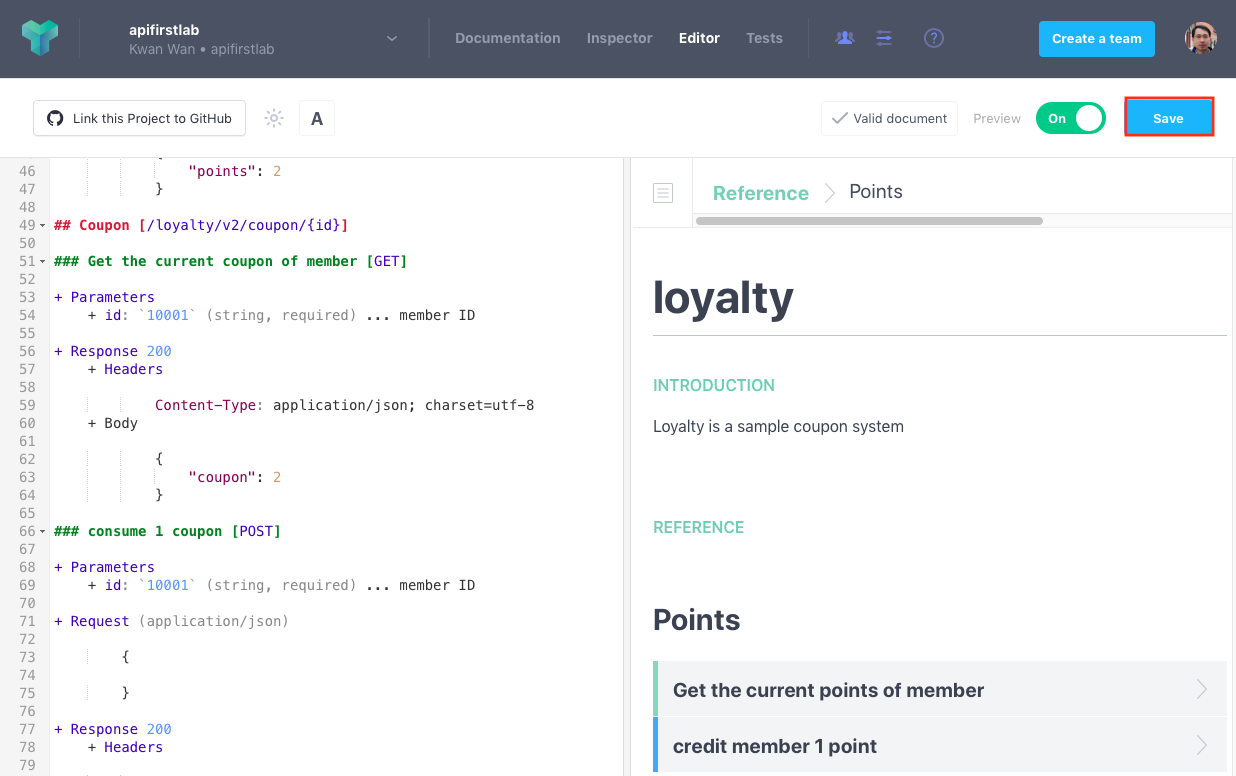
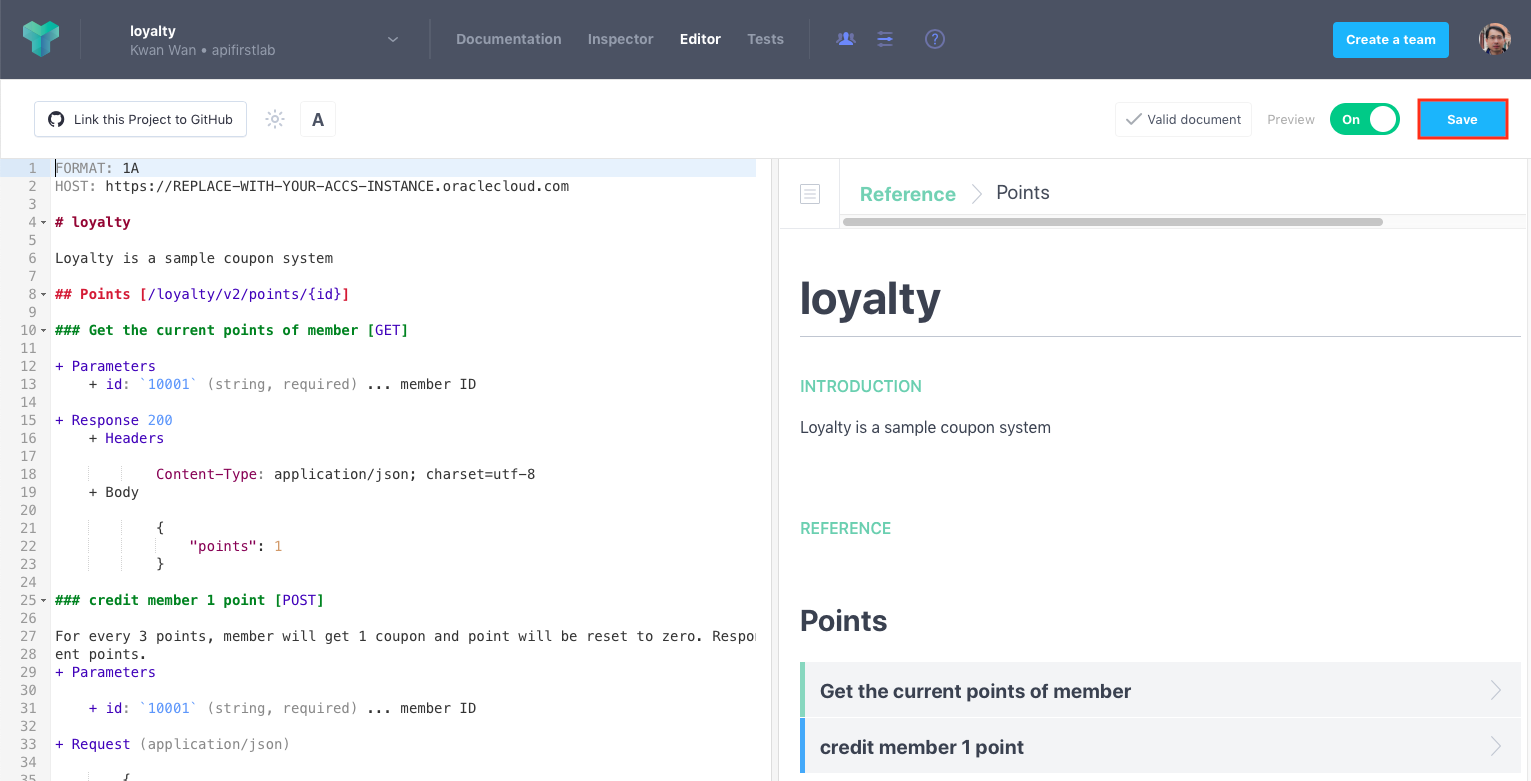
Updated lab and new captures.

diff --git a/300-APIFIRSTlab.md b/300-APIFIRSTlab.md
@@ -21,7 +21,7 @@ For more detail information of apiary, please visit https://apiary.io
 
 - Open a browser window and navigate to https://apiary.io
 
-![](images/apiary-01.png)
+  ![](images/apiary-01.png)
 
 ### Step 2: Sign up a free account
 
@@ -31,7 +31,7 @@ For more detail information of apiary, please visit https://apiary.io
 
 - Fill in your name, your email address and desired password and click [ ** Sign up for Apiary** ] - *please remember to review Apiary's Terms of Service and Privacy Policy*.
 
-![](images/apiary-02.png)
+  ![](images/apiary-02.png)
 
 - You will receive email verification for your Apiary account. Just follow the instructions in that email to activate your free account.
 
@@ -41,11 +41,11 @@ For more detail information of apiary, please visit https://apiary.io
 
 - Login to Apiary if you haven't already.
 
-![](images/apiary-03.png)
+  ![](images/apiary-03.png)
 
 - **IF THIS IS YOUR FIRST API, YOU WILL SEE A SCREEN LIKE THIS**. Provide a name for your API, e.g. **apifirstlab**.
 
-![](images/apiary-04.png)
+  ![](images/apiary-04.png)
 
 
 - Leave the default setting for format to *Start your API in* **API Blueprint**
@@ -54,7 +54,7 @@ For more detail information of apiary, please visit https://apiary.io
 
 - You will be taken to the API Editor as follow
 
-![](images/apiary-07.png)
+  ![](images/apiary-07.png)
 
 - Your screen will be split in two halves. The left hand side is the API Editor and the right hand side is the preview of your API.
 
@@ -163,7 +163,7 @@ For every 3 points, member will get 1 coupon and point will be reset to zero. Re
 
 - The final blueprint for **loyalty** will look similar to the following.
 
-![](images/apiary-08.png)
+  ![](images/apiary-08.png)
 
 - Click **Save** to to save your API Blueprint.
 
@@ -177,7 +177,7 @@ Once the API Blueprint is ready, we can use the Mock Server to test our API. We 
 
 - Click the [**Documentation**] tab to navigate to the API documentation. This is the view which *Client Application Developers* will work in when they need to learn / check / test your APIs.
 
-![](images/apiary-09.png)
+  ![](images/apiary-09.png)
 
 
 - Imagine you are the client application developer, when you navigate to this page, you can see this **loyalty** API contains:
@@ -190,42 +190,79 @@ Once the API Blueprint is ready, we can use the Mock Server to test our API. We 
     - Consume 1 coupon
 
 
-- Click [**Get the current points of member**] and check the right pane. It tells you example of using this API and the endpoint (URL) of the Mock Server.
+- Click [**Get the current points of member**] and check the right pane. It shows you an example of using this API and the endpoint (URL) of the Mock Server.
 
-![](images/apiary-10.png)
+  ![](images/apiary-10.png)
 
 
 ### Step 6: Testing with Mock Server
 
-- Let's test the API with the Mock Server. In the [**Request**] section, select [**Mock Server**] and click [**Try**] button
-![](images/apiary-11.png)
+The Mock Server is automatically created each time you publish your API Description. This means the only thing you have to do to get started is to write your API Description, include specific requests and responses for your resources, and click publish.
 
-- In this test console, you can set the desired URI parametes, headers, as well as entering your payload in the request body. Just keep the default values (*we are going to get the current point of member id 10001*), check we are using the [**Mock Server**] and click [**Call Resource**] button.  
-![](images/apiary-12.png)
+There are several ways in which you may interact with the Mock Server, both using your own tools and environments and using Apiary’s console.
+
+- Let's test the API with the Mock Server using the Apiary's console. On the right hand pane under the [**Request**] section, select [**Mock Server**] from the dropdown option list.
+
+  ![](images/apiary-11.png)
+
+- After switching to the Mock Server, you will receive your own private URL for the Mock Server. This is to ensure that other users do not see the traffic you’re sending to the server. Take note of the URL.
+
+- This URL may be used to interact directly with the server. You can make requests with applications like **curl** or **Paw** to that URL and will get responses defined in the API Description.
+
+  ![](images/apiary-12.png)
+
+- Click [**Try**] button to switch to the console.
+
+- The console is where you can send requests to the Mock Server directly from the documentation. Think of this as the test console.
+
+- In this test console, you can set the desired URI parameters, headers, as well as entering your payload in the request body. Just keep the default values (*we are going to get the current point of member id 10001*).
+
+  ![](images/apiary-13.png)
+
+- Check that we are using the [**Mock Server**]
+
+- Click [**Call Resource**] button.
 
 - Scroll down and you will see the API response *(from Mock Server)*. Feel free to explore the test console.
-![](images/apiary-13.png)
 
-- Go back to the example console by clicking the [**Switch to Example**] *(you might need to scroll up first)*.
-![](images/apiary-14.png)
+  ![](images/apiary-14.png)
 
 
-## Example Code for Client Application(s)
+## Code Example for Client Application(s)
+
+Apiary encourage a contract-first approach to designing your API. Write your API Description first before writing any server or client code.
+
+To make this process possible, Apiary provides tools that allow you to try out your API as you design it as shown in Step 6.
+
+Apiary provides code examples that you may use to interact with the Mock Server. Code examples are one tool provided that can be dropped into your existing code or used for prototyping. Apiary generates code samples in a variety of languages.
+
 
 ### Step 7: Get example code for different programming language(s)
 
-- In the right hand pane, Request section, select your desired programming language, e.g [**JavaScript**]
-![](images/apiary-15.png)
+- Go back to the example console by clicking the [**Switch to Example**] *(you might have to scroll to the top of the console pane)*.
 
-- After you change the language, the sample code will be display. As you can see, if you want to develop a HTML5 application, you can just copy and paste this sample code segment to your JavaScripts source code and change to something you need. Feel free to try different language. You can also choose *OTHER API* from *left hand pane*.
-![](images/apiary-16.png)
+  ![](images/apiary-15.png)
 
-- For example if you need to develop a NodeJS client, you can use the *request* npm module and have source code similar to the following segment to interact with the API service. Of course, these are just example code. You can always use other framework (e.g. jquery, request-promise, etc) to integrate with the API service.
-![](images/apiary-17.png)
+- In the right hand pane, under the [Request] section, select your desired programming language from the dropdown option list. Select [**JavaScript**]
+
+  ![](images/apiary-16.png)
+
+- After you selected a language, the sample code for that language will be displayed below. As you can see, if you want to develop a HTML5 application, you can just copy and paste this sample code segment to your JavaScripts source code and extend it. Feel free to try different languages.
+
+  ![](images/apiary-17.png)
+
+- For example if you need to develop a NodeJS client, you can use the *request* npm module and have source code similar to the following segment to interact with the API service. Of course, these are just code examples. You can always use other framework (e.g. jquery, request-promise, etc) to integrate with the API service.
+
+  ![](images/apiary-18.png)
+
+- You can also switch to other APIs by selecting an API choose from the *left hand pane*.
+
 
 ### Step 8: Apiary Mock Server
 
-- Write down the URL of the Apiary Mock Server, we will need to use this URL in next lab.
+- Write down the URL of your Apiary Mock Server, we will need to use this URL in the next lab.
+
+  ![](images/apiary-12.png)
 
 ## You've complete the Using Apiary & API Blueprint Lab.
 
